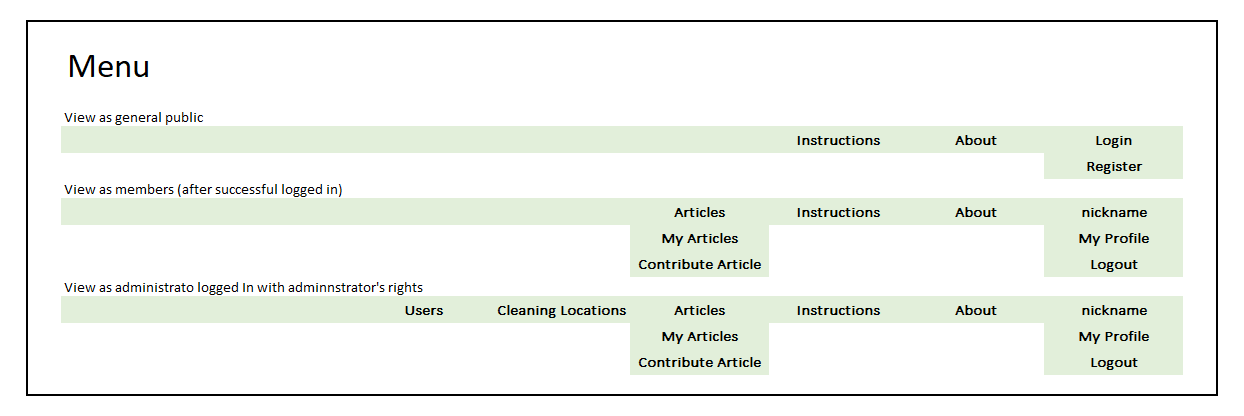
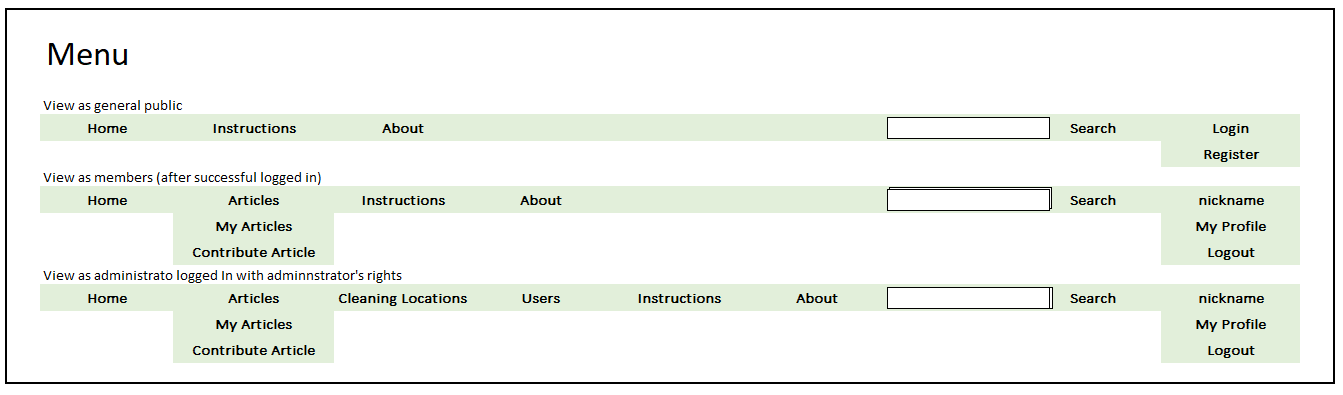
Amend navigation menu design

Changed region(s): [[0.0, 0.0, 1.0, 0.9722]]

diff --git a/templates/base.template.html b/templates/base.template.html
@@ -18,16 +18,80 @@
 
     <link href="https://fonts.googleapis.com/css2?family=Lato:wght@400;700&family=Oswald:wght@400;500&display=swap" rel="stylesheet">
 
-    <link rel="stylesheet" type="text/css" href="{{ url_for('static', filename='css/lib/reset.css') }}">
-    <link rel="stylesheet" type="text/css" href="{{ url_for('static', filename='css/lib/bootstrap.min.css') }}">
+    <link rel="stylesheet" type="text/css" href="{{ url_for('static', filename='css/lib/reset/reset.css') }}">
+    <link rel="stylesheet" type="text/css" href="{{ url_for('static', filename='css/lib/bootstrap/bootstrap.min.css') }}">
     <link rel="stylesheet" type="text/css" href="{{ url_for('static', filename='css/myStyle.css') }}">  
 
-    <script src="{{ url_for('static', filename='js/lib/jquery-3.5.1.min.js') }}"></script>
-    <script src="{{ url_for('static', filename='js/lib/popper.min.js') }}"></script>
-    <script src="{{ url_for('static', filename='js/lib/bootstrap.min.js') }}"></script>
+    <script src="{{ url_for('static', filename='js/lib/bootstrap/jquery-3.5.1.min.js') }}"></script>
+    <script src="{{ url_for('static', filename='js/lib/bootstrap/popper.min.js') }}"></script>
+    <script src="{{ url_for('static', filename='js/lib/bootstrap/bootstrap.min.js') }}"></script>
 
 </head> 
 
+<body>
+
+<!-- ========================================================== 
+PAGE HEADER
+========================================================== -->
+<header>
+
+<!-- Navigation Bar -->
+<nav class="navbar navbar-expand-lg navbar-light bg-light">
+ <a class="navbar-brand" href="{{ url_for('home') }}">
+    <img src="http://resume.donovanlo.sg/images/donovanlogo150x131.png" height="50" class="d-inline-block align-middle" alt="Logo">
+    Cleaning d'Solutions&nbsp;&nbsp;&nbsp;
+  </a>
+  <button class="navbar-toggler" type="button" data-toggle="collapse" data-target="#navbarSupportedContent" aria-controls="navbarSupportedContent" aria-expanded="false" aria-label="Toggle navigation">
+    <span class="navbar-toggler-icon"></span>
+  </button>
+
+  <div class="collapse navbar-collapse" id="navbarSupportedContent">
+    <ul class="navbar-nav mr-auto">
+      <li class="nav-item active">
+        <a class="nav-link" href="#">Home <span class="sr-only">(current)</span></a>
+      </li>
+      <li class="nav-item">
+        <a class="nav-link" href="#">Link</a>
+      </li>
+      <li class="nav-item dropdown">
+        <a class="nav-link dropdown-toggle" href="#" id="navbarDropdown" role="button" data-toggle="dropdown" aria-haspopup="true" aria-expanded="false">
+          Dropdown
+        </a>
+        <div class="dropdown-menu" aria-labelledby="navbarDropdown">
+          <a class="dropdown-item" href="#">Action</a>
+          <a class="dropdown-item" href="#">Another action</a>
+          <div class="dropdown-divider"></div>
+          <a class="dropdown-item" href="#">Something else here</a>
+        </div>
+      </li>
+      <li class="nav-item">
+        <a class="nav-link disabled" href="#">Disabled</a>
+      </li>
+    </ul>
+    <form class="form-inline my-2 my-lg-0">
+      <input class="form-control mr-sm-2" type="search" placeholder="Search" aria-label="Search">
+      <button class="btn btn-outline-success my-2 my-sm-0" type="submit">Search</button>
+    </form>
+  </div>
+</nav>
+{% block header %}{% endblock %}
+
+  {% for message in get_flashed_messages() %}
+    <div class="flash">{{ message }}</div>
+  {% endfor %}
+
+</header>
+<!-- ==========================================================
+MAIN
+========================================================== -->
+<main>
+{% block content %}{% endblock %}
+</main>
+<!-- ==========================================================
+PAGE FOOTER
+========================================================== -->
+<footer>
+</footer>
 
 <!-- <nav>
   <h1>Flaskr</h1>
@@ -41,12 +105,7 @@
     {% endif %}
   </ul>
 </nav> -->
-<section class="content">
-  <header>
-    {% block header %}{% endblock %}
-  </header>
-  {% for message in get_flashed_messages() %}
-    <div class="flash">{{ message }}</div>
-  {% endfor %}
-  {% block content %}{% endblock %}
-</section>
+
+</body>
+
+</html>

diff --git a/templates/file-not-found.template.html b/templates/file-not-found.template.html
@@ -2,7 +2,7 @@
 {% extends 'base.template.html' %}
 
 {% block header %}
-<h1>{% block title %}About{% endblock %}</h1>
+<h1>{% block title %}File Not Found{% endblock %}</h1>
 {% endblock %}
 
 {% block content %}

diff --git a/templates/home.template.html b/templates/home.template.html
@@ -8,3 +8,4 @@
 {% block content %}
 xxx
 {% endblock %}
+
